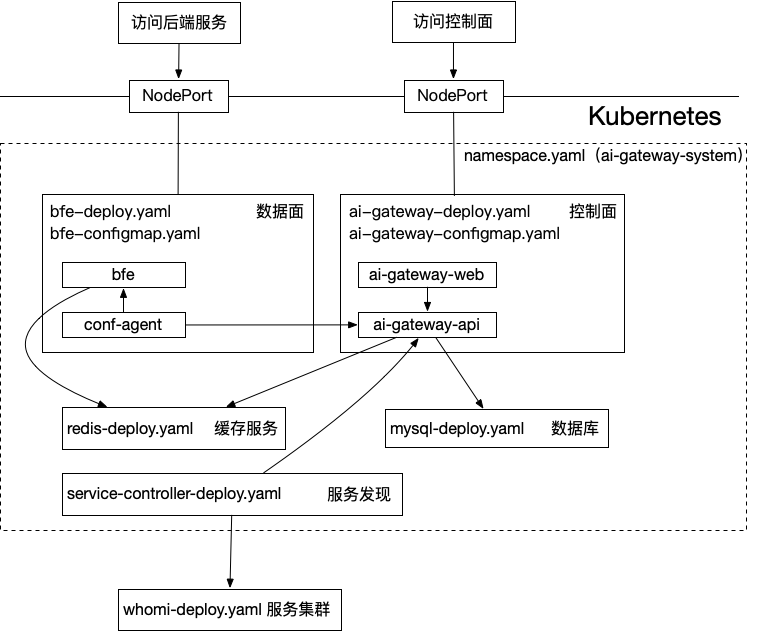
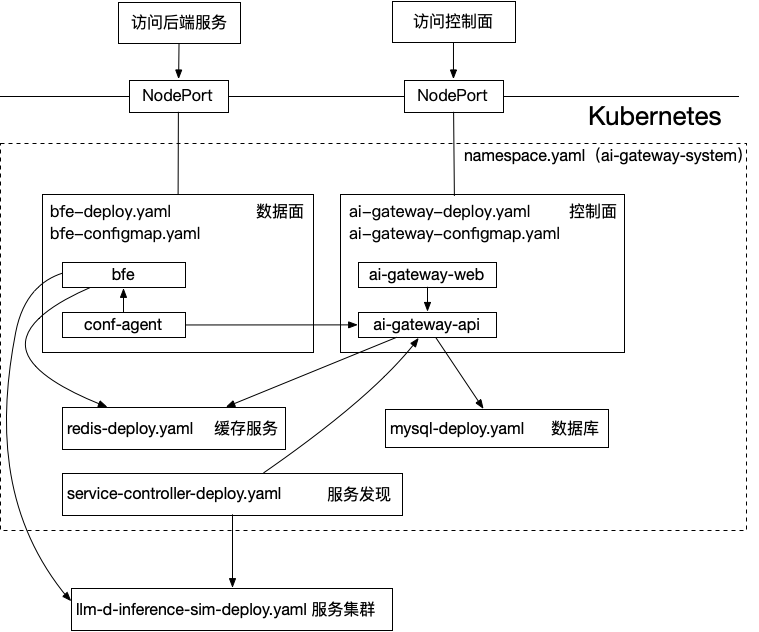
feat: replace whoami demo service with llm-d inference simulator and update related documentation

Changed region(s): [[0.0606, 0.8418, 0.5152, 1.0]]

diff --git a/BUILD_GUIDE.md b/BUILD_GUIDE.md
@@ -390,7 +390,7 @@ Key args in `examples/service-controller-endpoints.yaml`:
 - `bfe-api-addr`: AI Gateway API address (control plane)
 - `bfe-api-token`: API auth Token (create from Dashboard)
 - `namespace`: which Kubernetes namespace(s) to watch for backend Services
-  - In this demo, the backend test service **whoami** is deployed in the `default` namespace, so set it to: `default`
+  - In this demo, the backend test service (llm-d inference simulator) is deployed in the `default` namespace, so set it to: `default`
   - Control plane/data plane runs in `ai-gateway-system`, but discovered backend Services can live in other namespaces (controlled by this arg)
 
 
@@ -593,20 +593,20 @@ Deployed resources (Namespace: `ai-gateway-system`):
 
 ### 6. Deploy Test Service (Validate Routing)
 
-About **whoami**:
+About the demo backend service (llm-d inference simulator):
 
-whoami is a lightweight HTTP echo service used to validate BFE routing/forwarding. It returns request details (hostname, IP, headers, etc.), which is great for testing.
+This repo provides a demo backend service manifest that runs an LLM inference simulator (Deployment `vllm-llama3-8b-instruct`, Service `vllm-llama3-8b-instruct-svc`). It can be used as a backend to validate Service discovery and BFE routing/forwarding.
 
 Deploy:
 
 ```bash
-kubectl apply -f kubernetes/whoami-deploy.yaml
+kubectl apply -f kubernetes/llm-d-inference-sim-deploy.yaml
 ```
 
 Key notes:
-- whoami is deployed in the `default` namespace (not `ai-gateway-system`).
-- If you want to use a different image, edit `kubernetes/whoami-deploy.yaml`.
-- You must configure forwarding rules in the Dashboard before accessing whoami through BFE.
+- The demo backend service is deployed in the `default` namespace (not `ai-gateway-system`).
+- If you want to use a different image/model args, edit `kubernetes/llm-d-inference-sim-deploy.yaml`.
+- You must configure forwarding rules in the Dashboard before accessing the backend through BFE.
 
 The Service must include required labels and named ports:
 
@@ -614,17 +614,17 @@ The Service must include required labels and named ports:
 apiVersion: v1
 kind: Service
 metadata:
-  name: whoami
+  name: vllm-llama3-8b-instruct-svc
   namespace: default
   labels:
     bfe-product: AI_product  # required: Service Controller uses this to discover
 spec:
   ports:
     - name: http             # required: port must be named
-      port: 8080
-      targetPort: 80
+      port: 8000
+      targetPort: 8000
   selector:
-    app.kubernetes.io/name: whoami
+    app: vllm-llama3-8b-instruct
 ```
 
 ### 7. Validate Deployment
@@ -688,21 +688,21 @@ Common causes:
 - MySQL/Redis is not ready or connection settings are incorrect (more likely when using external DB)
 - DB init script was not applied (external MySQL scenario)
 
-### 3) Service Controller does not discover/sync whoami
+### 3) Service Controller does not discover/sync the demo backend service
 
 ```bash
-# Does whoami have Endpoints?
-kubectl get endpoints whoami -n default
+# Does the Service have Endpoints?
+kubectl get endpoints vllm-llama3-8b-instruct-svc -n default
 
-# Does whoami Service have the required fixed label?
-kubectl get svc whoami -n default -o yaml | grep -A3 "labels:"
+# Does the Service have the required fixed label?
+kubectl get svc vllm-llama3-8b-instruct-svc -n default -o yaml | grep -A3 "labels:"
 
 # Service Controller logs
 kubectl logs -n ai-gateway-system -l app=service-controller --tail=200
 ```
 
 Checkpoints:
-- The whoami Service must include `bfe-product: AI_product`.
+- The backend Service must include `bfe-product: AI_product`.
 - Service Controller’s watched namespace must include `default` (this repo’s demo manifests watch `default`).
 
 ### 4) BFE returns 500
@@ -753,6 +753,9 @@ kubectl logs -f -n ai-gateway-system -l app=bfe --all-containers=true --tail=100
 - **AI Gateway API**
   - GitHub: https://github.com/yf-networks/ai-gateway-api
   - Dashboard frontend: https://github.com/yf-networks/ai-gateway-web
+
+- **llm-d inference simulator (demo backend)**
+  - GitHub: https://github.com/llm-d/llm-d-inference-sim
 
 - **Service Controller**
   - GitHub: https://github.com/bfenetworks/service-controller

diff --git a/README.md b/README.md
@@ -11,7 +11,7 @@ This example demonstrates the interaction of several key components in the `ai-g
 - Control plane (ai-gateway-api): provides configuration/policy delivery API
 - Base dependencies (MySQL, Redis): provide storage and dependency services for the control plane
 - Service discovery (service-controller): discovers and syncs backend services
-- Demo service (whoami): used to validate routing
+- Demo backend service (llm-d inference simulator): used to validate routing
 - Components communicate via Kubernetes Service/DNS, for example:
   - ai-gateway-api.ai-gateway-system.svc.cluster.local
   - mysql.ai-gateway-system.svc.cluster.local
@@ -36,7 +36,7 @@ Main files (directory ./kubernetes):
 | `mysql-deploy.yaml` | MySQL Deployment (example database and storage config) |
 | `redis-deploy.yaml` | Redis Deployment/Service (example cache config) |
 | `service-controller-deploy.yaml` | Service discovery controller Deployment manifest |
-| `whoami-deploy.yaml` | whoami demo service Deployment manifest |
+| `llm-d-inference-sim-deploy.yaml` | Demo backend service (llm-d inference simulator) manifest |
 
 ## Prerequisites
 
@@ -77,10 +77,10 @@ This command deploys: bfe (with conf-agent), ai-gateway-api (with Dashboard), my
 ### 3) Deploy Test Service (Optional)
 
 ```bash
-kubectl apply -f kubernetes/whoami-deploy.yaml
+kubectl apply -f kubernetes/llm-d-inference-sim-deploy.yaml
 ```
 
-> whoami is deployed in the `default` namespace; to replace the image, edit `whoami-deploy.yaml` directly.
+> The demo backend service is deployed in the `default` namespace; to replace the image/model args, edit `llm-d-inference-sim-deploy.yaml` directly.
 
 ### 4) Quick Validation
 
@@ -100,11 +100,11 @@ http://{NodeIP}:30183
 ### Cleanup Deployment
 
 ```bash
-kubectl delete -f kubernetes/whoami-deploy.yaml
+kubectl delete -f kubernetes/llm-d-inference-sim-deploy.yaml
 kubectl delete -k kubernetes/
 ```
 
-> Recommended: delete whoami first, then `ai-gateway-system` to avoid finalizers causing hang.
+> Recommended: delete the demo backend service first, then `ai-gateway-system` to avoid finalizers causing hang.
 
 ## Contributing
 
@@ -115,6 +115,7 @@ See [CONTRIBUTING.md](./CONTRIBUTING.md) for how to submit pull requests.
 - Build and Deployment Complete Guide: [BUILD_GUIDE.md](./BUILD_GUIDE.md) / [BUILD_GUIDE_CN.md](./BUILD_GUIDE_CN.md)
 - BFE Project: https://github.com/bfenetworks/bfe
 - AI Gateway API: https://github.com/yf-networks/ai-gateway-api
+- Demo backend (llm-d inference simulator): https://github.com/llm-d/llm-d-inference-sim
 - Service Controller: https://github.com/bfenetworks/service-controller
 - Dashboard Frontend: https://github.com/yf-networks/ai-gateway-web
 - Kubernetes Documentation: https://kubernetes.io/docs/

diff --git a/README_CN.md b/README_CN.md
@@ -11,7 +11,7 @@
 - 控制面（ai-gateway-api）负责策略/配置下发接口；
 - 基础依赖（MySQL、Redis）为控制面提供存储与依赖服务；
 - 服务发现（service-controller）负责发现并同步后端服务；
-- 示例服务 whoami 用于验证路由；
+- 示例后端服务（llm-d inference simulator）用于验证路由；
 - 组件间通过 Kubernetes Service/DNS 相互通信，如：
   - ai-gateway-api.ai-gateway-system.svc.cluster.local
   - mysql.ai-gateway-system.svc.cluster.local
@@ -36,7 +36,7 @@
 | `mysql-deploy.yaml` | MySQL Deployment（示例数据库与存储配置） |
 | `redis-deploy.yaml` | Redis Deployment/Service（示例缓存配置） |
 | `service-controller-deploy.yaml` | 服务发现控制器 Deployment 清单 |
-| `whoami-deploy.yaml` | 示例测试服务 whoami 的 Deployment 清单 |
+| `llm-d-inference-sim-deploy.yaml` | 示例后端服务（llm-d inference simulator）清单 |
 
 ## 前提条件
 
@@ -77,10 +77,10 @@ kubectl apply -k kubernetes
 ### 3) 部署测试服务（可选）
 
 ```bash
-kubectl apply -f kubernetes/whoami-deploy.yaml
+kubectl apply -f kubernetes/llm-d-inference-sim-deploy.yaml
 ```
 
-> whoami 部署在 `default` 命名空间；如需替换镜像，请直接修改 `whoami-deploy.yaml`。
+> 示例后端服务部署在 `default` 命名空间；如需替换镜像/模型参数，请直接修改 `llm-d-inference-sim-deploy.yaml`。
 
 ### 4) 快速验证
 
@@ -100,11 +100,11 @@ http://{NodeIP}:30183
 ### 清理部署
 
 ```bash
-kubectl delete -f kubernetes/whoami-deploy.yaml
+kubectl delete -f kubernetes/llm-d-inference-sim-deploy.yaml
 kubectl delete -k kubernetes/
 ```
 
-> 建议先删 whoami 再删 `ai-gateway-system`，避免 finalizers 导致卡住。
+> 建议先删示例后端服务再删 `ai-gateway-system`，避免 finalizers 导致卡住。
 
 
 ## 社区贡献
@@ -116,6 +116,7 @@ kubectl delete -k kubernetes/
 - 构建与部署完整指南： [BUILD_GUIDE_CN.md](./BUILD_GUIDE_CN.md)
 - BFE 项目： https://github.com/bfenetworks/bfe
 - AI Gateway API： https://github.com/yf-networks/ai-gateway-api
+- 示例后端（llm-d inference simulator）： https://github.com/llm-d/llm-d-inference-sim
 - Service Controller： https://github.com/bfenetworks/service-controller
 - Dashboard 前端： https://github.com/yf-networks/ai-gateway-web
 - Kubernetes 文档： https://kubernetes.io/docs/
